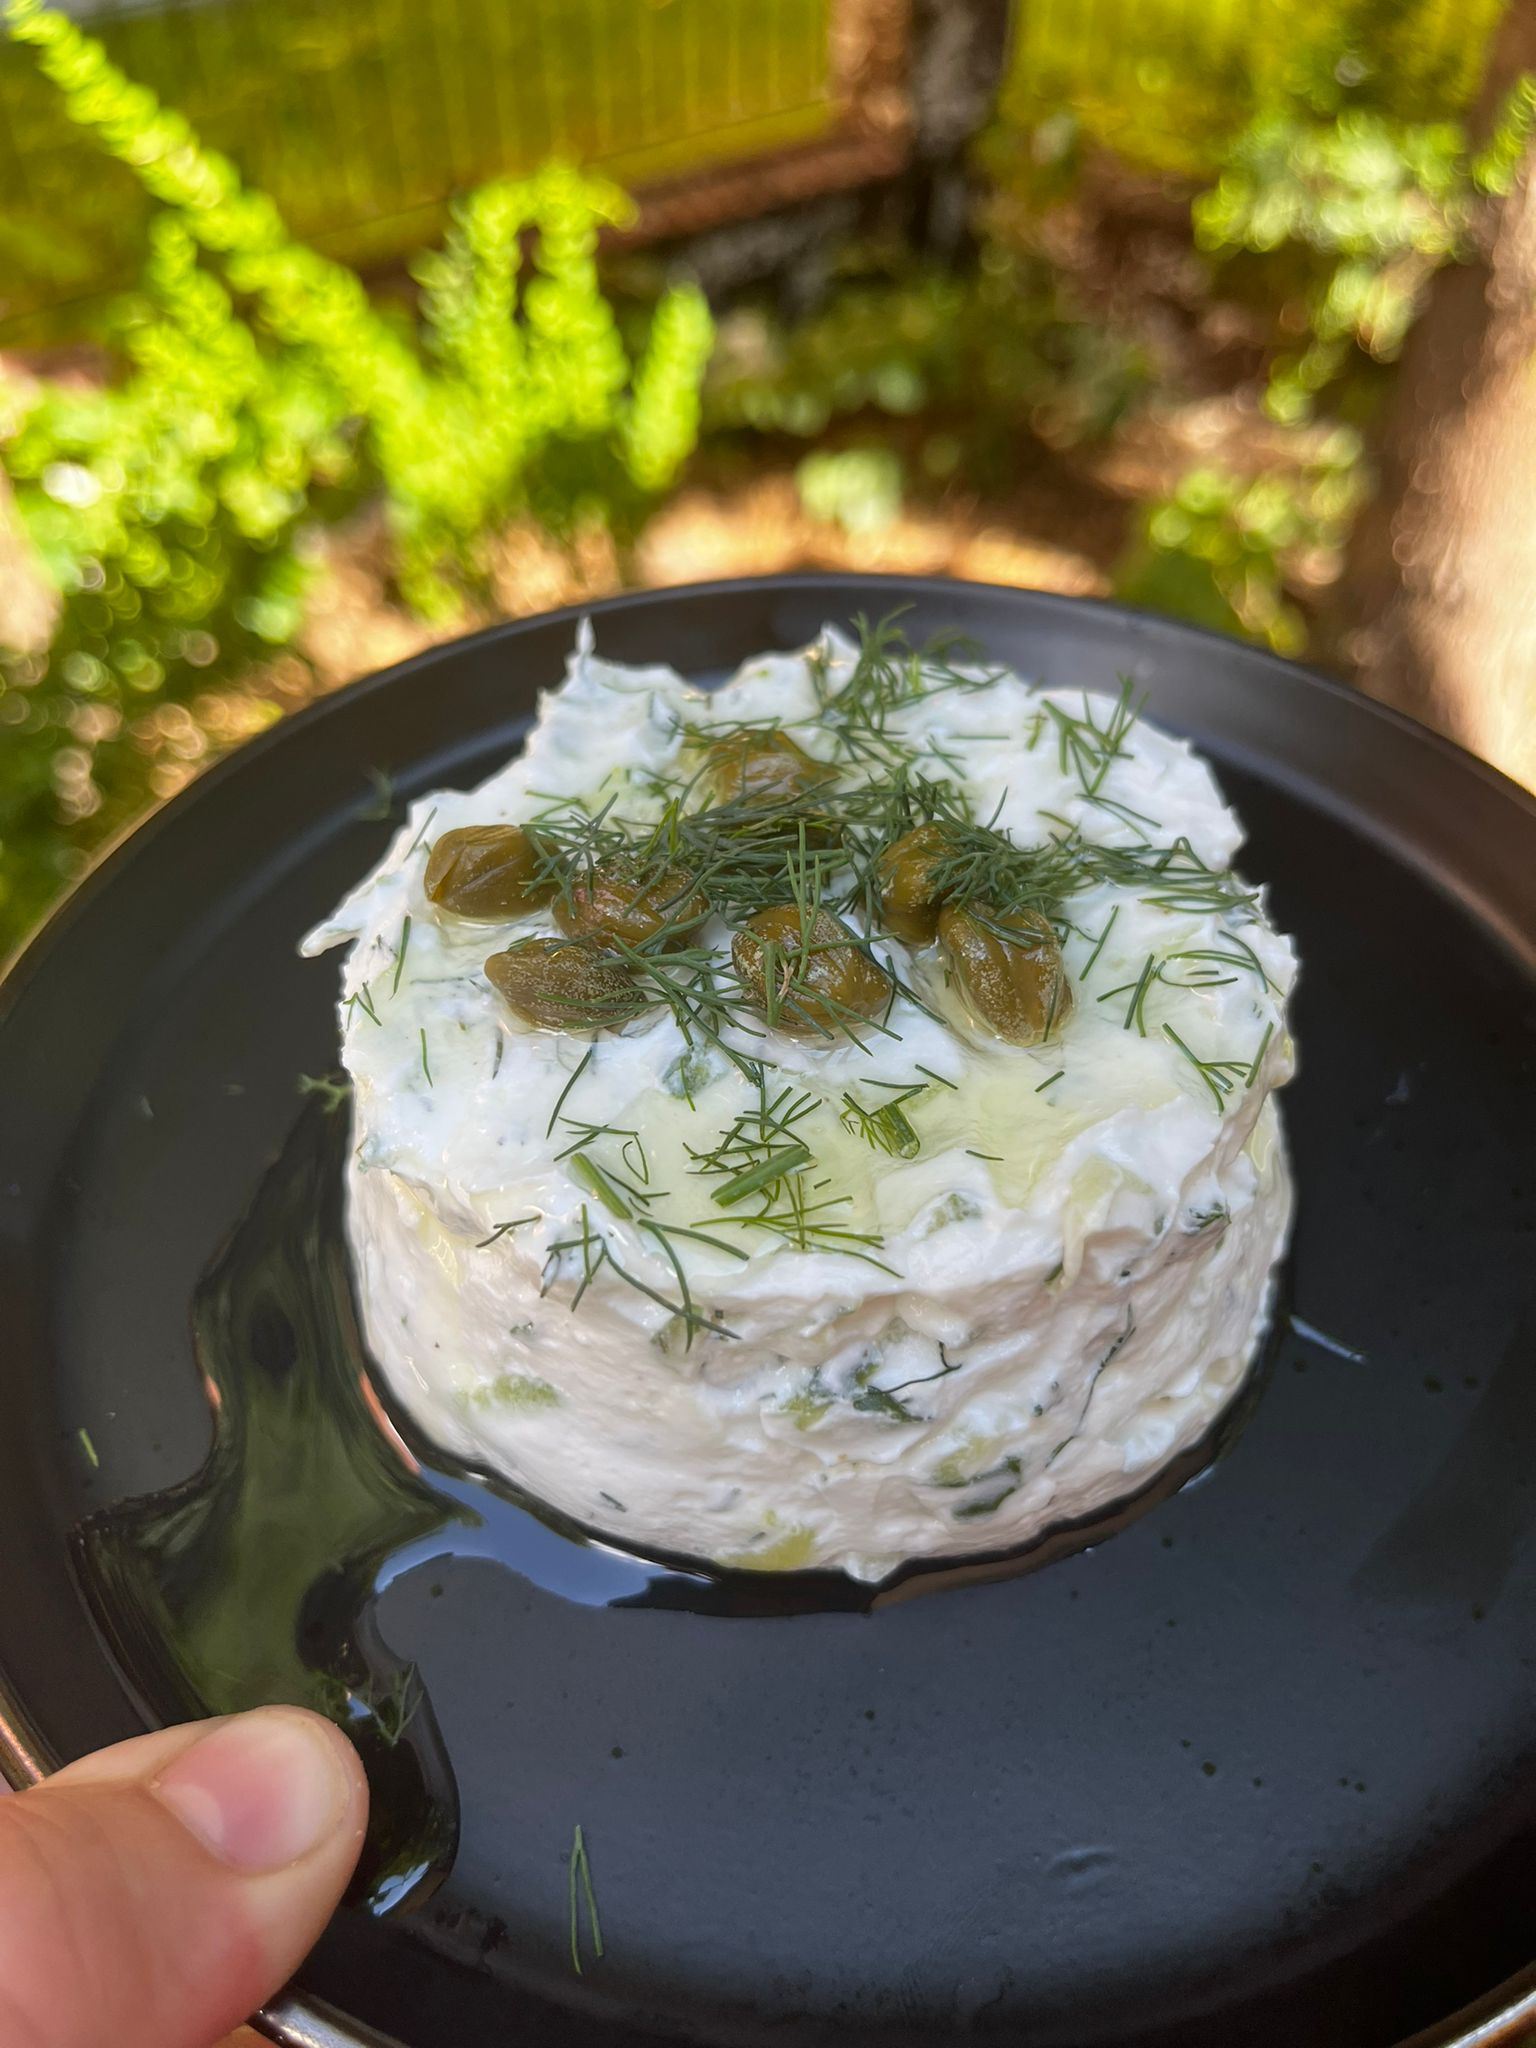
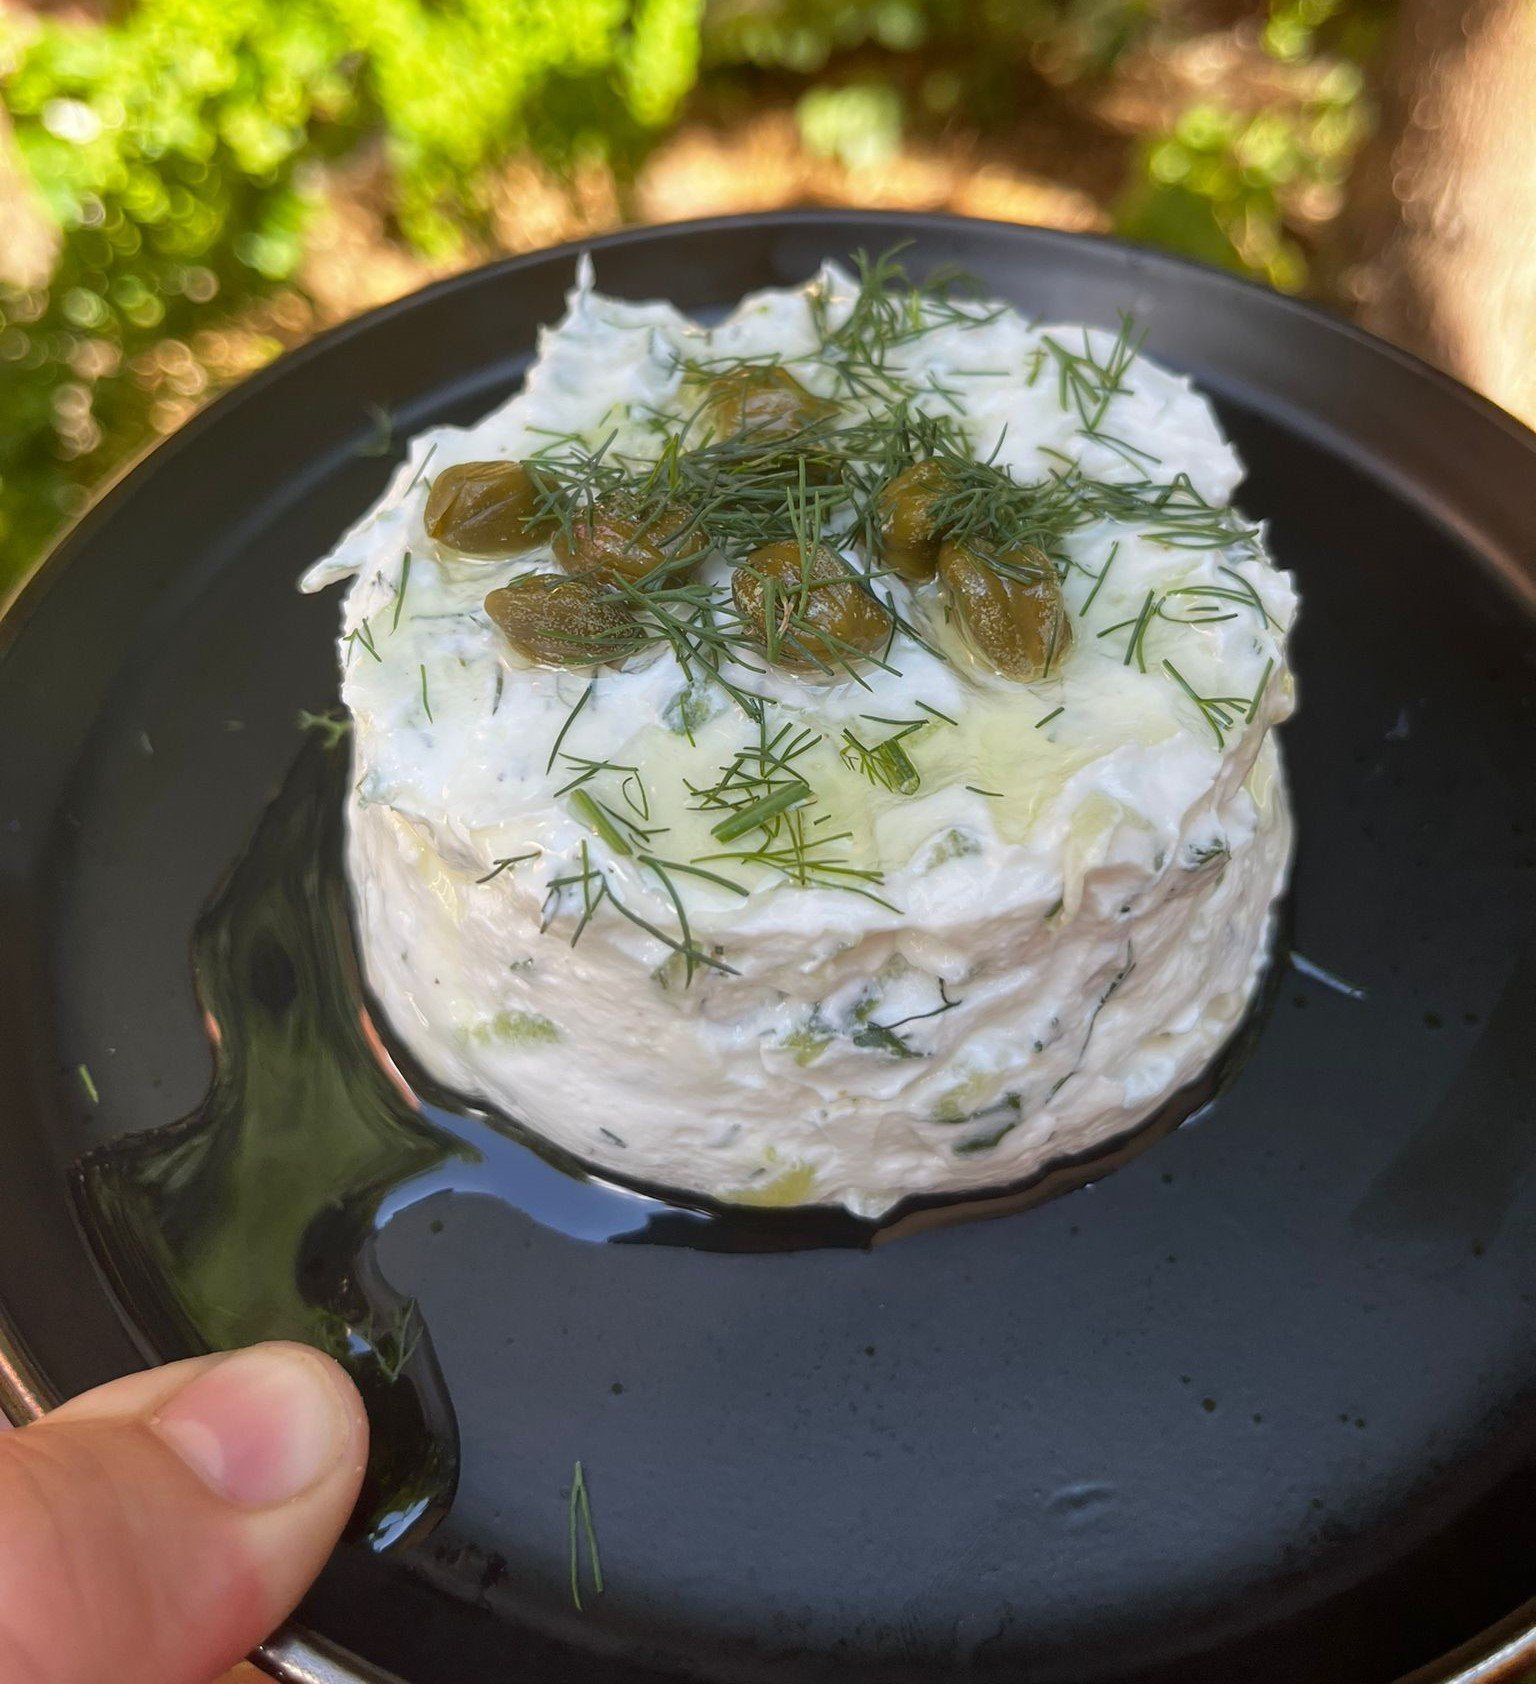
resize photo in restaurantmenu

diff --git a/style.css b/style.css
@@ -885,11 +885,22 @@ main {
 		left: 10%;
 	}
 	.Photo {
-		width: 135%;
+		width: 113%;
 		padding: 0;
 	}
 }
-
+@media only screen and (max-width: 425px) {
+	.Photo {
+		width: 129%;
+		padding: 0;
+	}
+}
+@media only screen and (max-width: 322px) {
+	.Photo {
+		width: 139%;
+		padding: 0;
+	}
+}
 /* styling catering page */
 .cateringInfoWrapper {
 	aspect-ratio: 8/9;
